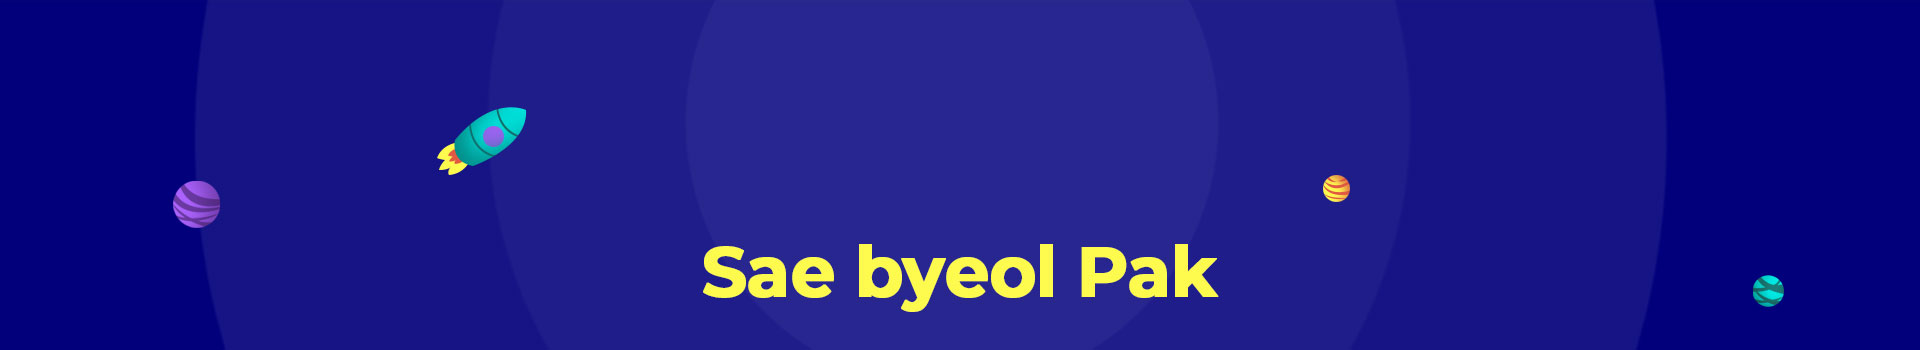
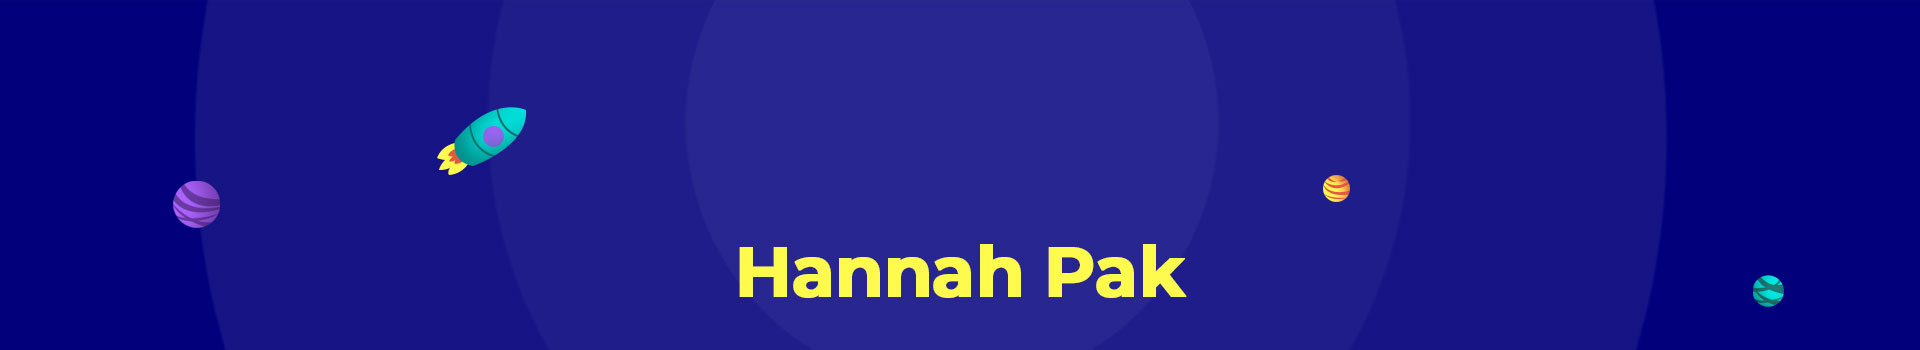
change data

Changed region(s): [[0.3438, 0.6857, 0.6562, 0.8857]]

diff --git a/src/components/contents/AboutMe.js b/src/components/contents/AboutMe.js
@@ -10,7 +10,7 @@ const AboutMe = () => {
             <div className='aboutMeBox'>
                 <h1 className='subTitle'>About Me</h1>
                 <div className='aboutMeDetail'>
-                    <h3>Hi, I’m Sae Pak, Vancouver based front-end developer.</h3>
+                    <h3>Hi, I’m Hannah Pak, Vancouver based front-end developer.</h3>
                     <p>Since starting my journey as a UI developer, I have enjoyed the process of making web projects that are easy to use and accessible to all. I love to learn new technology and keep track of lessons learned.</p>
                     <br></br>
                     <p>I / I am...</p>

diff --git a/public/index.html b/public/index.html
@@ -25,7 +25,7 @@
       work correctly both with client-side routing and a non-root public URL.
       Learn how to configure a non-root public URL by running `npm run build`.
     -->
-    <title>Sae Pak</title>
+    <title>Hannah Pak</title>
   </head>
   <body>
     <noscript>You need to enable JavaScript to run this app.</noscript>
